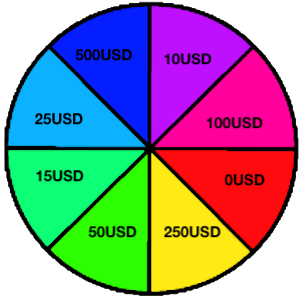
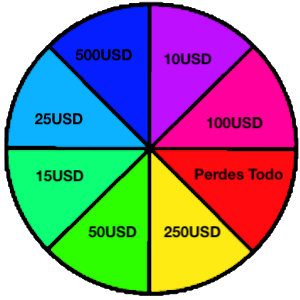
Cambios perdiate todo

Changed region(s): [[0.63, 0.54, 0.96, 0.63]]

diff --git a/script.js b/script.js
@@ -18,6 +18,10 @@ function sumarPuntos(puntos){
 	dinero += puntos;
     document.querySelector("#dinero").innerHTML = "Tu Mosca: $" + dinero + "USD";
 }
+function PerdesTodo(){
+	dinero -= dinero;
+    document.querySelector("#dinero").innerHTML = "Tu Mosca: $" + dinero + "USD";
+}
 
 
 function calcular(rand){
@@ -47,7 +51,8 @@ function calcular(rand){
             sumarPuntos(250);
             break;
         case valor > 225 && valor <= 270:
-            alert("No has sumado USD =(");
+            alert("Perdiste todo");
+            PerdesTodo();
             break;
         case valor > 270 && valor <= 315:
             alert("has sumado 100 USD");

diff --git a/index.html b/index.html
@@ -9,7 +9,7 @@
 	<div id="dinero">Tu Mosca: $50USD</div>
 	<div id="costo">Cada tiro cuesta 20</div>
 	<div class="vara"></div>
-	<img src="imagen.png" id="ruleta"  width="450" height="450">
+	<img src="imagen.png" id="ruleta"  width="80%" height="80%">
 </div>
 <script src="script.js"></script>
 </body>

diff --git a/estilo.css b/estilo.css
@@ -48,4 +48,3 @@ img {
 	color:  white;
 	font-size: 40px;
 }
-
